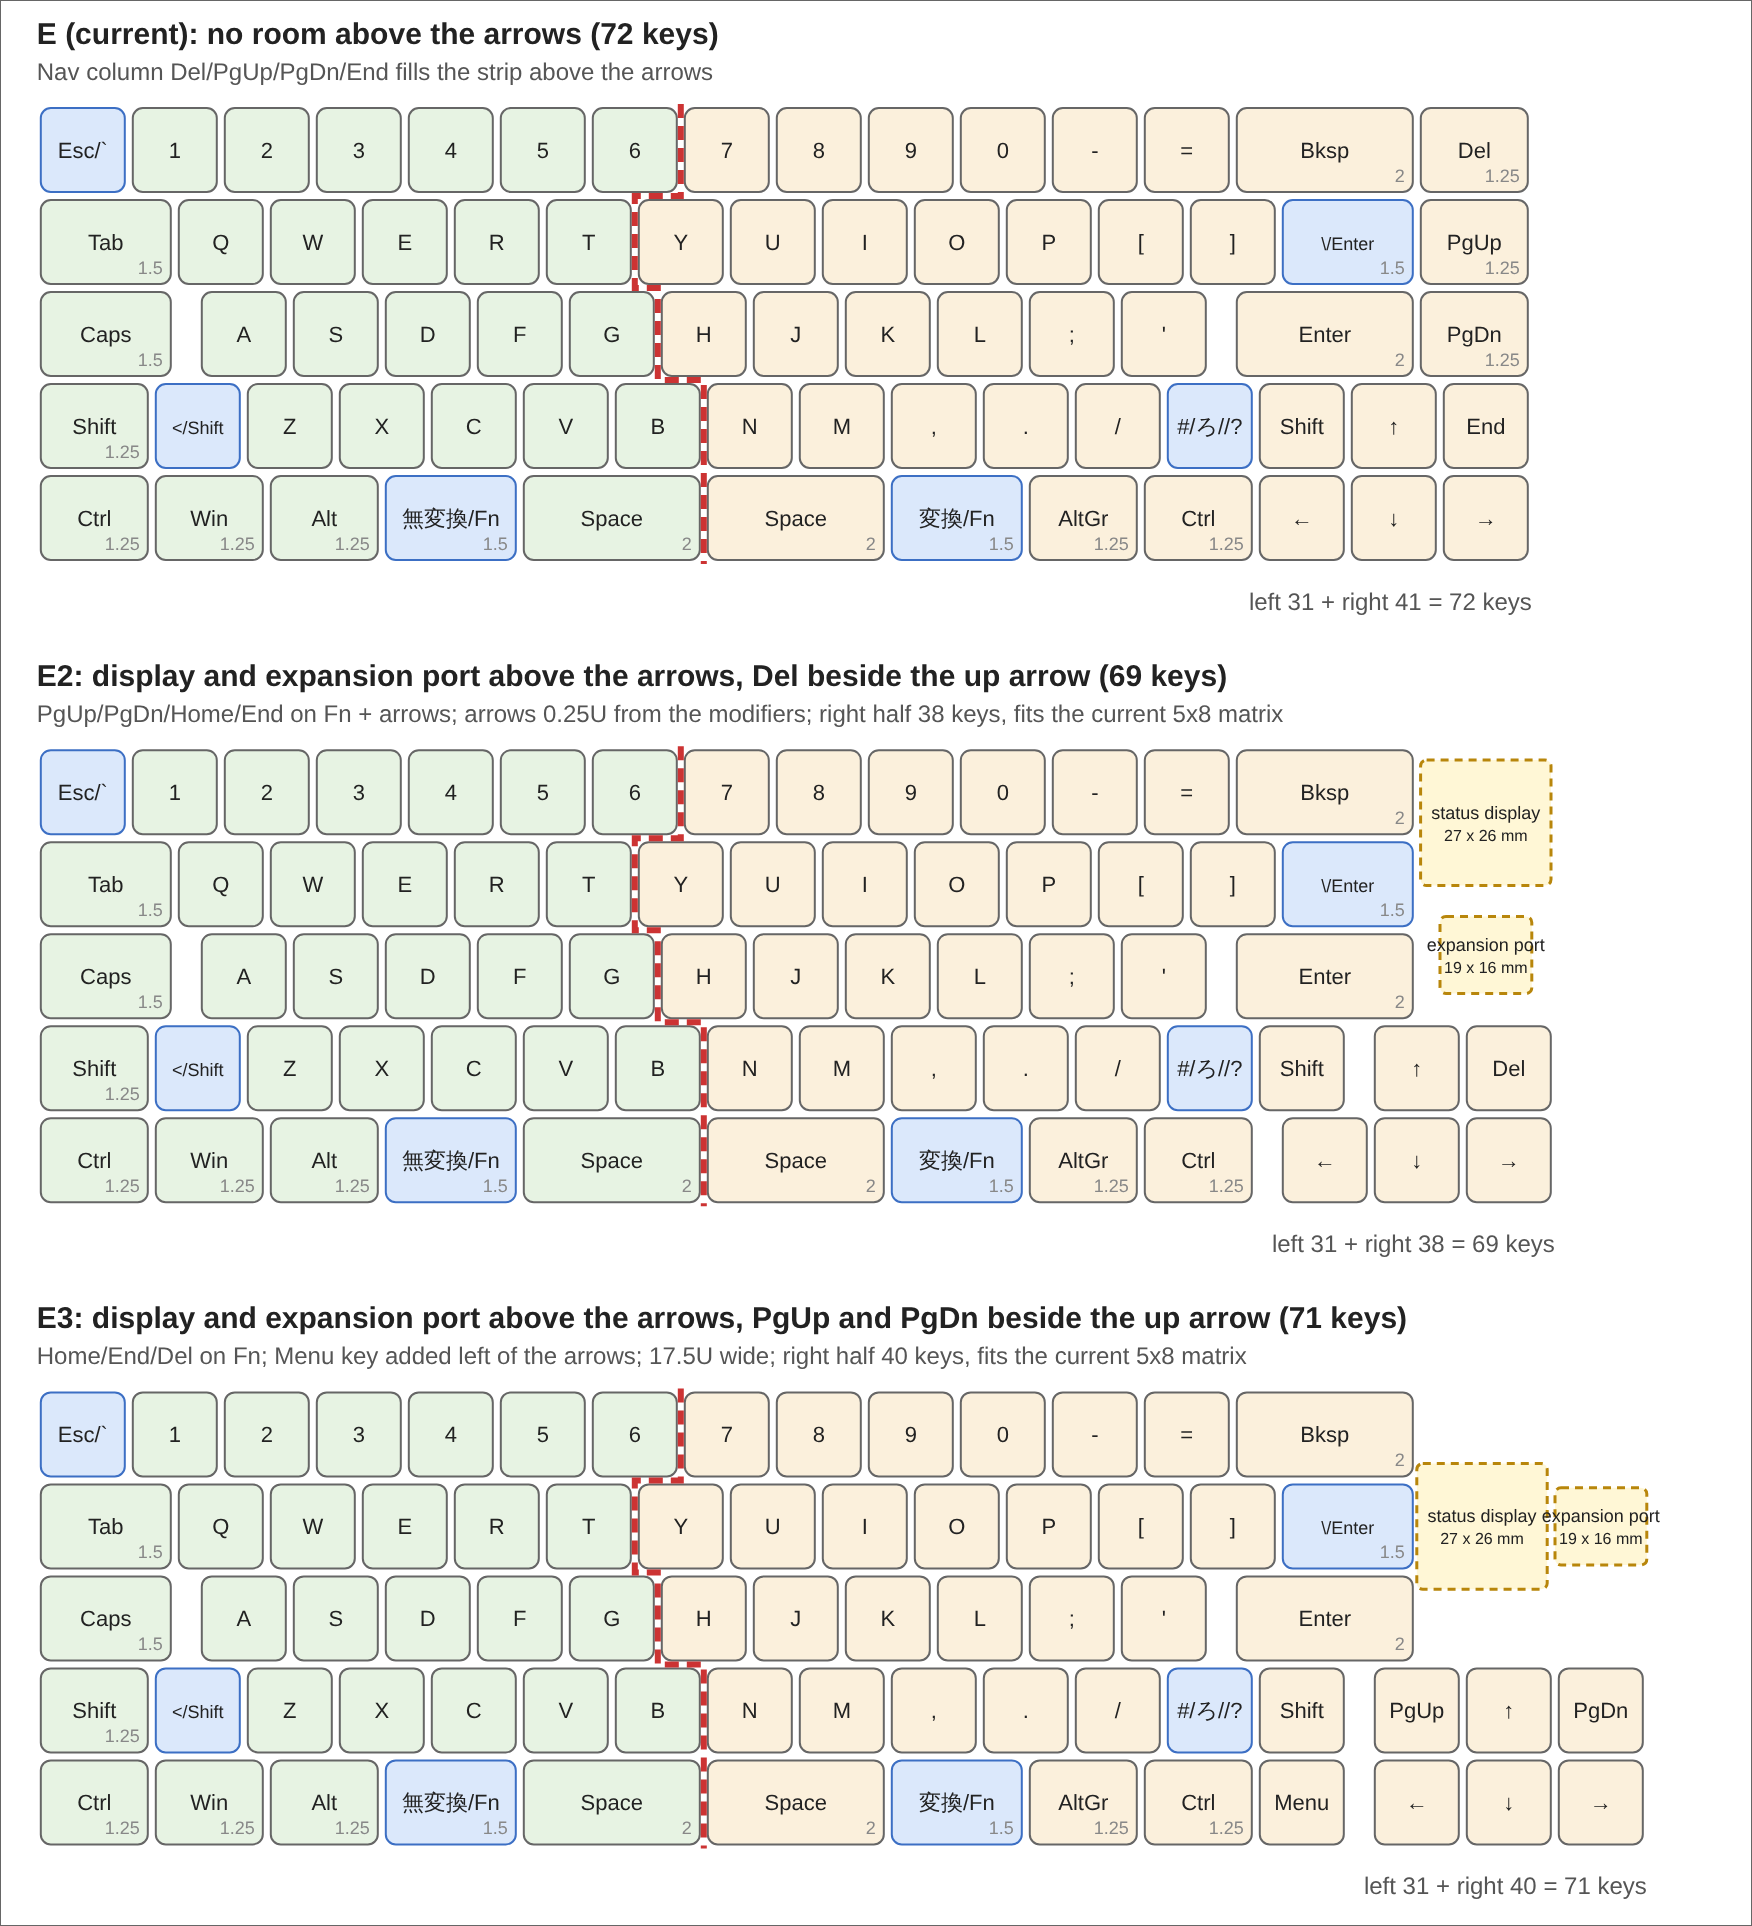
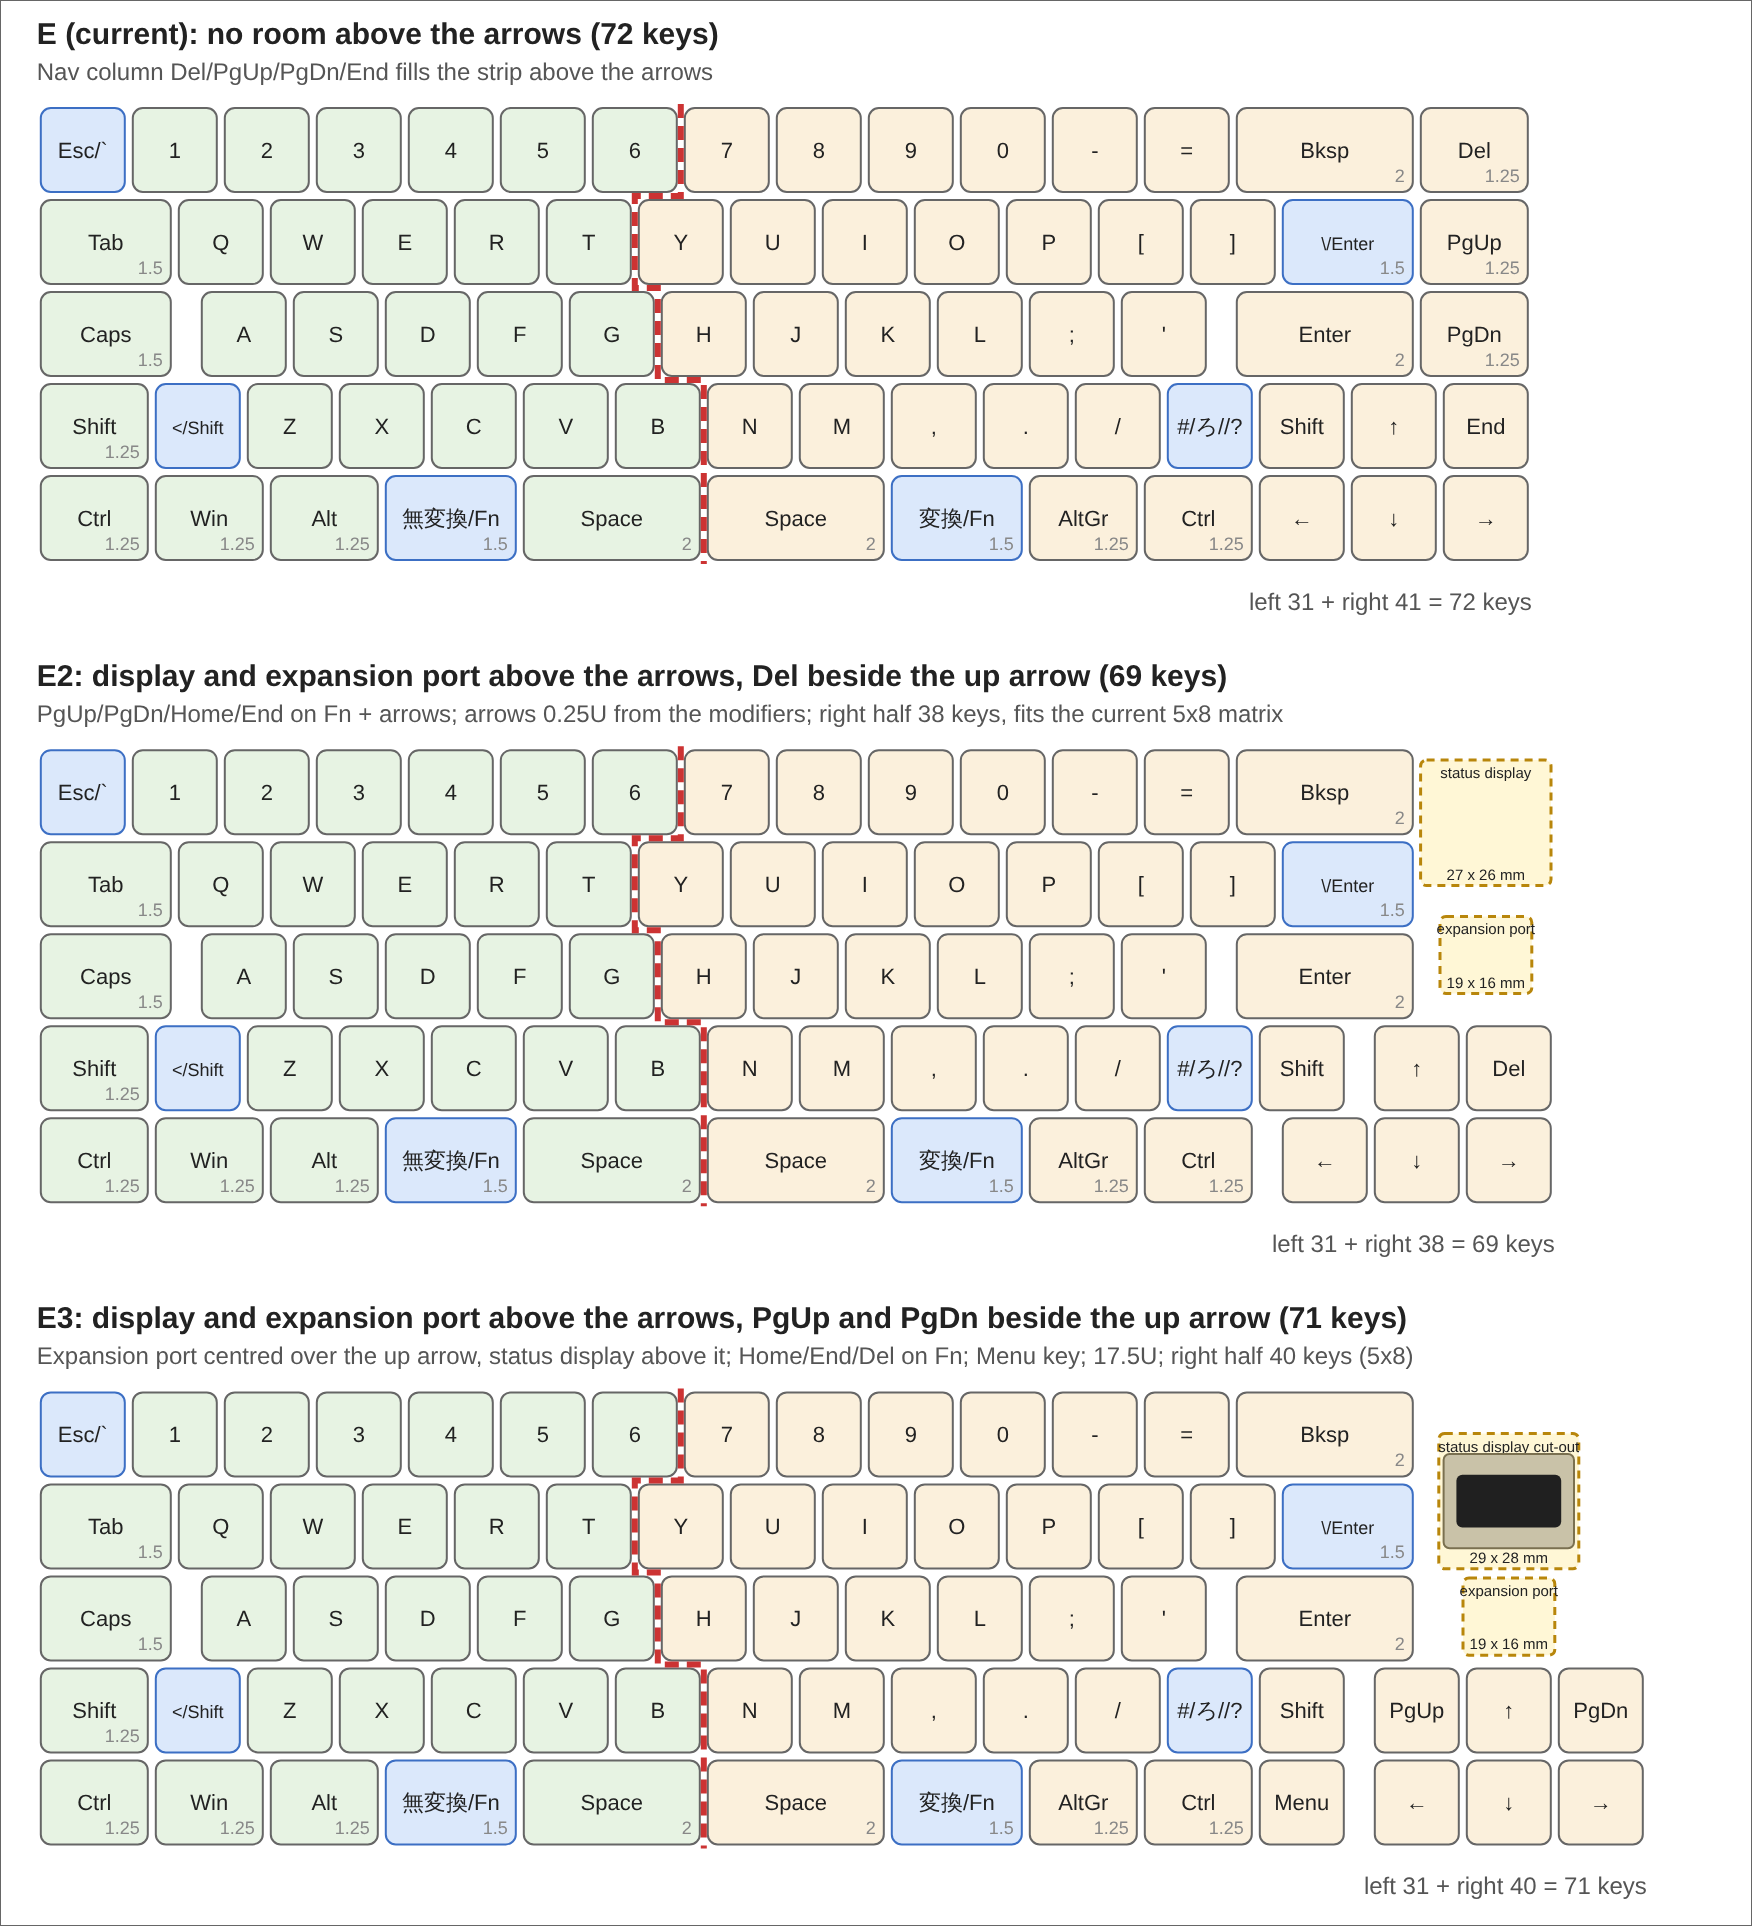
split72s: E3 with the expansion port over the up arrow, display above
The expansion port lid (19 x 16 mm) is centred over the up arrow and the
status display cut-out sits above it: 29 x 28 mm, the 27 x 26 mm holder
with an assumed 1 mm clearance, with the display module (27 x 19.5 mm)
and screen (21.7 x 10.9 mm) drawn inside.

Claude-Session: https://claude.ai/code/session_01U989dwa8qfqDTeXimD42CV

diff --git a/poly_kybd/variations/split72s/layout_study/tkl_layouts.py b/poly_kybd/variations/split72s/layout_study/tkl_layouts.py
@@ -293,12 +293,15 @@ def svg_board(layout, keys, oy):
     else:
         out.append(f'<text x="{(PAD+width)*U}" y="{by+(6.75+dy)*U}" class="note" text-anchor="end">'
                    f'{count(keys)} keys</text>')
-    for ax, ay, wmm, hmm, label in layout.get("areas", []):
+    for ax, ay, wmm, hmm, label, cls in layout.get("areas", []):
         px, py = (PAD + ax) * U, by + (ay + Y["n"] + dy) * U     # ay counts from the top key row
         w, h = wmm / MM_U * U, hmm / MM_U * U
-        out.append(f'<rect x="{px:.1f}" y="{py:.1f}" width="{w:.1f}" height="{h:.1f}" rx="3" class="area"/>')
-        out.append(f'<text x="{px + w / 2:.1f}" y="{py + h / 2 - 2:.1f}" font-size="9" class="k">{esc(label)}</text>')
-        out.append(f'<text x="{px + w / 2:.1f}" y="{py + h / 2 + 9:.1f}" font-size="8" class="k">{wmm:g} x {hmm:g} mm</text>')
+        out.append(f'<rect x="{px:.1f}" y="{py:.1f}" width="{w:.1f}" height="{h:.1f}" rx="3" class="{cls}"/>')
+        if cls == "area":
+            out.append(f'<text x="{px + w / 2:.1f}" y="{py + 9:.1f}" font-size="7.5" class="k">{esc(label)}</text>')
+            out.append(f'<text x="{px + w / 2:.1f}" y="{py + h - 3:.1f}" font-size="7.5" class="k">{wmm:g} x {hmm:g} mm</text>')
+        elif label:
+            out.append(f'<text x="{px + w / 2:.1f}" y="{py + h / 2 + 3:.1f}" font-size="7" class="k" fill="#ddd">{esc(label)} {wmm:g} x {hmm:g}</text>')
     return "\n".join(out), by + (7.1 + dy) * U, left, right
 
 
@@ -316,7 +319,7 @@ def render(layouts, path):
     css = """
     .t{font:600 15px sans-serif;fill:#222}.note{font:12px sans-serif;fill:#555}
     .k{font-family:sans-serif;text-anchor:middle;fill:#222}.w{font:9px sans-serif;text-anchor:end;fill:#888}
-    rect{stroke:#666;stroke-width:1}.plain{fill:#f2f2f2}.hl{fill:#e7f3e3}.hr{fill:#fbf0dc}.pad{fill:#efe6f7}.area{fill:#fff7d6;stroke:#b8860b;stroke-width:1.5;stroke-dasharray:4 3}
+    rect{stroke:#666;stroke-width:1}.plain{fill:#f2f2f2}.hl{fill:#e7f3e3}.hr{fill:#fbf0dc}.pad{fill:#efe6f7}.area{fill:#fff7d6;stroke:#b8860b;stroke-width:1.5;stroke-dasharray:4 3}.module{fill:#c9c2a8;stroke:#7a7050;stroke-width:1}.screen{fill:#202020;stroke:none}
     .var{fill:#dbe8fb;stroke:#3c6fc4}.bad{fill:#fde0e0;stroke:#c33;stroke-width:2}
     .cut{fill:none;stroke:#c33;stroke-width:3;stroke-dasharray:7 4}"""
     svg = (f'<svg xmlns="http://www.w3.org/2000/svg" width="{W:.0f}" height="{oy:.0f}" '
@@ -335,6 +338,9 @@ NUMPAD[2]["rows"] = _docked(COMPACT[2]["rows"], NP4)
 # expansion port lid (17 x 14 mm cut-out plus a 1 mm flange, parts/cover_insert) above the
 # arrow keys. The nav column goes; the arrows sit 0.25U right of the modifiers.
 DISPLAY_MM, EXPANSION_MM = (27.0, 26.0), (19.0, 16.0)
+CLEARANCE_MM = 1.0                                  # assumed gap around the display holder
+DISPLAY_CUT_MM = (DISPLAY_MM[0] + 2 * CLEARANCE_MM, DISPLAY_MM[1] + 2 * CLEARANCE_MM)
+DISPLAY_MODULE_MM, DISPLAY_ACTIVE_MM = (27.0, 19.5), (21.7, 10.9)   # display_holder.scad
 MM_U = 19.05          # mm per key unit (U above is pixels per unit)
 _E2_TOP = {"n": B_ROWS["n"][:13] + [(2, "Bksp")],
            "t": B_ROWS["t"],
@@ -344,8 +350,26 @@ _E2_BOTTOM = [(1.25, "Ctrl"), (1.25, "Win"), (1.25, "Alt"), (1.5, "無変換|Fn"
               (2, "Space"), (1.5, "変換|Fn"), (1.25, "AltGr"), (1.25, "Ctrl")]
 
 
-def _area(x_u, y_u, size_mm, label):
-    return (x_u, y_u, size_mm[0], size_mm[1], label)
+def _area(x_u, y_u, size_mm, label, cls="area"):
+    return (x_u, y_u, size_mm[0], size_mm[1], label, cls)
+
+
+def _centred(cx_u, top_u, size_mm, label, cls="area"):
+    """An area centred on cx_u (key units), top edge at top_u."""
+    return _area(cx_u - size_mm[0] / MM_U / 2, top_u, size_mm, label, cls)
+
+
+def _status_stack(cx_u, up_top_u, gap_u=0.1):
+    """Expansion port straight above the key whose top is up_top_u, the status display
+    cut-out above the port, display module and visible screen inside the cut-out."""
+    port_top = up_top_u - gap_u - EXPANSION_MM[1] / MM_U
+    cut_top = port_top - gap_u - DISPLAY_CUT_MM[1] / MM_U
+    module_top = cut_top + (DISPLAY_CUT_MM[1] - DISPLAY_MODULE_MM[1]) / 2 / MM_U
+    active_top = module_top + (DISPLAY_MODULE_MM[1] - DISPLAY_ACTIVE_MM[1]) / 2 / MM_U
+    return [_centred(cx_u, cut_top, DISPLAY_CUT_MM, "status display cut-out"),
+            _centred(cx_u, module_top, DISPLAY_MODULE_MM, "", "module"),
+            _centred(cx_u, active_top, DISPLAY_ACTIVE_MM, "", "screen"),
+            _centred(cx_u, port_top, EXPANSION_MM, "expansion port")]
 
 
 STATUS = [
@@ -368,14 +392,13 @@ STATUS = [
     },
     {
         "name": "E3: display and expansion port above the arrows, PgUp and PgDn beside the up arrow (71 keys)",
-        "note": "Home/End/Del on Fn; Menu key added left of the arrows; 17.5U wide; right half 40 keys, fits the current 5x8 matrix",
+        "note": "Expansion port centred over the up arrow, status display above it; Home/End/Del on Fn; Menu key; 17.5U; right half 40 keys (5x8)",
         "rows": {**{r: v + [("gap", 2.5)] for r, v in _E2_TOP.items()},
                  "s": _E2_SHIFT + [(1, "PgUp"), (1, "↑"), (1, "PgDn")],
                  "b": _E2_BOTTOM + [(1, "Menu"), ("gap", .25), (1, "←"), (1, "↓"), (1, "→")]},
         "nav": [], "main_w": 17.5, "split": True,
-        # side by side: 27 + 1.6 + 19 mm = 47.6 mm = the 2.5U strip
-        "areas": [_area(15.0, (3 - DISPLAY_MM[1] / MM_U) / 2, DISPLAY_MM, "status display"),
-                  _area(15.0 + (DISPLAY_MM[0] + 1.6) / MM_U, (3 - EXPANSION_MM[1] / MM_U) / 2, EXPANSION_MM, "expansion port")],
+        # the up arrow spans 15.5 to 16.5U, its top is row 3
+        "areas": _status_stack(16.0, 3.0),
     },
 ]
 

diff --git a/poly_kybd/variations/split72s/layout_study/README.md b/poly_kybd/variations/split72s/layout_study/README.md
@@ -12,7 +12,7 @@ connected position the halves touch along that line.
 | `tkl_layouts.svg/.png` | ANSI and ISO TKL references, A (ANSI only, 90 keys), B (universal TKL, 94 keys) |
 | `compact_layouts.svg/.png` | No F-row: C (full nav, 78), D (one nav column, 74), E (65 %, 72), F (E without End, 71) |
 | `e_vs_65.svg/.png` | Layout E next to a standard ANSI 65 % board |
-| `status_layouts.svg/.png` | Room for the status display (27 x 26 mm) and the expansion port (19 x 16 mm) above the arrows: E2 (69 keys, Del beside the up arrow, 16.5U) and E3 (71 keys, PgUp and PgDn beside the up arrow, Menu key, 17.5U), both with the arrows 0.25U from the modifiers |
+| `status_layouts.svg/.png` | Room for the status display (27 x 26 mm) and the expansion port (19 x 16 mm) above the arrows: E2 (69 keys, Del beside the up arrow, 16.5U) and E3 (71 keys, PgUp and PgDn beside the up arrow, Menu key, 17.5U; the expansion port centred over the up arrow, the status display cut-out above it: 29 x 28 mm, the 27 x 26 mm holder with an assumed 1 mm clearance, display module 27 x 19.5 mm and screen 21.7 x 10.9 mm drawn inside), both with the arrows 0.25U from the modifiers |
 | `numpad_layouts.svg/.png` | Number blocks N1 (4x5, 20 keys) and N2 (5x5, 25 keys), all 1U, and E with N1 docked on the right |
 | `export_layout_e.py` | Writes the JSON files below from `tkl_layouts.py` |
 | `layout_e.kle.json` | Layout E for keyboard-layout-editor.com: open the file with the site's JSON upload (the Raw data tab expects the rows without the outer brackets) |
